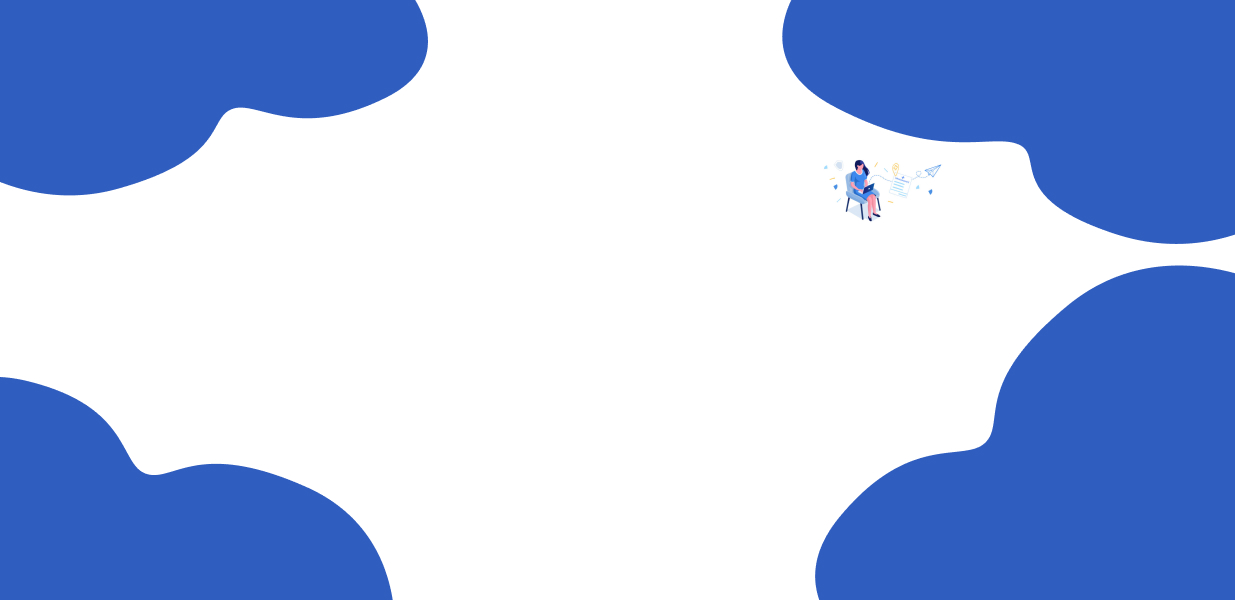
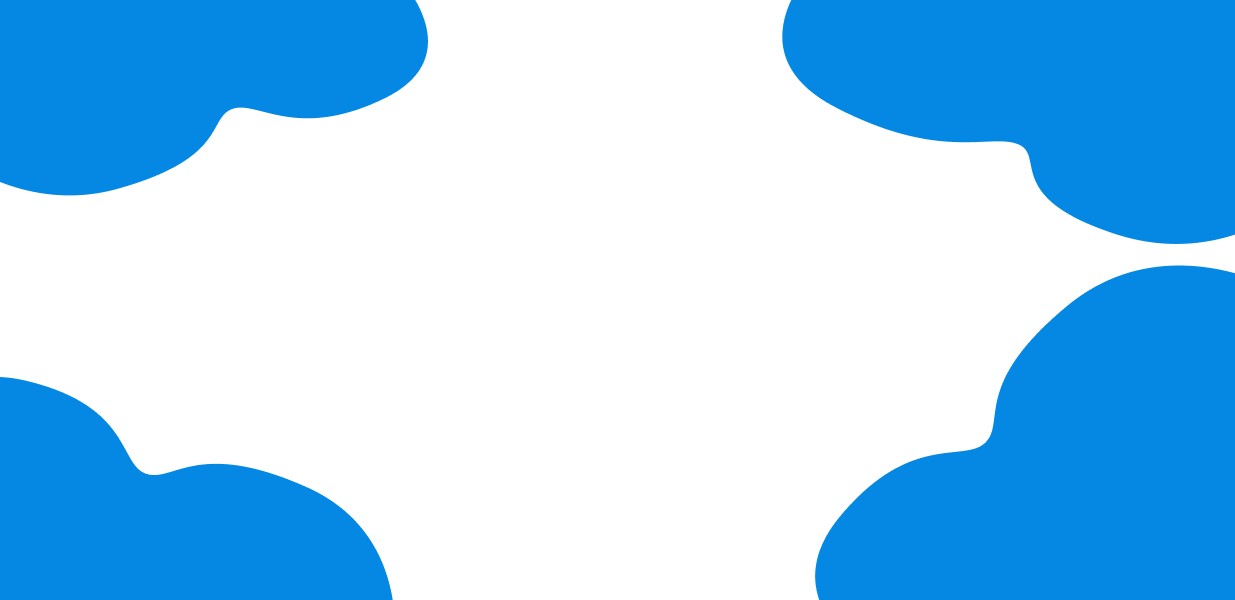
du front docteur

diff --git a/app/assets/stylesheets/components/_bouton-home.scss b/app/assets/stylesheets/components/_bouton-home.scss
@@ -1,10 +1,45 @@
-.boutton-carré{
-    background: #83a4d4; /* fallback for old browsers */
-    background: #00c6ff; /* fallback for old browsers */
-    background: -webkit-linear-gradient(to right, #00c6ff, #0072ff); /* Chrome 10-25, Safari 5.1-6 */
-    background: linear-gradient(to right, #00c6ff, #0072ff); /* W3C, IE 10+/ Edge, Firefox 16+, Chrome 26+, Opera 12+, Safari 7+ */
-    width: 300px;
-    height: 300px;
-    border-radius: 10px;
-    margin-top: 50px;
+.boutton-carré {
+    // background: #2E5CBF; /* fallback for old browsers */
+    // background: -webkit-linear-gradient(to right, #2E5CBF, #0072ff); /* Chrome 10-25, Safari 5.1-6 */
+    // background: linear-gradient(to right, #2E5CBF, #0072ff); /* W3C, IE 10+/ Edge, Firefox 16+, Chrome 26+, Opera 12+, Safari 7+ */
+  position: relative;
+  display: flex;
+  align-items: center;
+  justify-content: center;
+  flex-direction: column;
+  height: 400px;
+  width: 400px;
+  border-radius: 25px;
+  background-color: #ffffff;
+  box-shadow: 8px 0 10px rgba(64, 145, 237, 0.5);
+  overflow: hidden;
+  text-decoration: none;
+
+    h2 {
+      color: #000000;
+      display: block;
+      font-size: 1.5em;
+      font-weight: bold;
+      text-decoration: none;
+    }
+}
+
+
+.image-bouton-carré {
+  width: 81px;
+}
+
+
+.parent-flexbox:hover .boutton-carré {
+  filter: blur(3px);
+  transform: scale(0.9);
+  opactiy: 0.5;
+  transition: 0.9s;
+}
+
+.parent-flexbox .boutton-carré:hover {
+  filter: blur(0);
+  transform: scale(1.1);
+  opactiy: 1;
+  transition: 0.9s;
 }

diff --git a/app/assets/stylesheets/pages/_home-doctortest.scss b/app/assets/stylesheets/pages/_home-doctortest.scss
@@ -1,0 +1,63 @@
+.card-drh {
+  position: relative;
+  display: flex;
+  align-items: center;
+  justify-content: center;
+  flex-direction: column;
+  height: 400px;
+  width: 400px;
+  border-radius: 25px;
+  background-color: #ffffff;
+  box-shadow: 10px 0 50px rgba(0, 0, 0, 0.5);
+  overflow: hidden;
+}
+
+.card-drh:nth-child(1) {
+  margin-right: 30px;
+}
+
+body:hover .card-drh {
+  filter: blur(15px);
+  transform: scale(0.9);
+  opactiy: 0.5;
+  transition: 0.9s;
+}
+
+body .card-drh:hover {
+  filter: blur(0);
+  transform: scale(1);
+  opactiy: 1;
+  transition: 0.9s;
+}
+
+.card-drh h2 {
+  position: absolute;
+  left: 0;
+  top: 0;
+  margin: 20px 0 0 20px;
+  font-size: 32px;
+  font-weight: 600;
+  text-transform: uppercase;
+  letter-spacing: 15px;
+  color: #ffffff;
+  mix-blend-mode: difference;
+}
+
+#circle {
+  height: 100%;
+  width: 100%;
+  border-radius: 50%;
+  background-color: #000000;
+  margin-top: -330px;
+  margin-left: 200px;
+}
+
+#triangle {
+  height: 100%;
+  width: 100%;
+  background-color: #000000;
+  border-radius: 20px;
+  transform: rotate(70deg);
+  margin-top: -430px;
+  margin-left: 200px;
+}

diff --git a/app/assets/stylesheets/components/_cards_home.scss b/app/assets/stylesheets/components/_cards_home.scss
@@ -17,7 +17,7 @@ body {
   background-color: #fff;
   transform: scale(0.7);
   border-radius: 8px;
-  box-shadow: 0 0 10px 1px #4169b0 ;
+  box-shadow: 0 0 10px 1px #0488E3 ;
   left: 25%;
 }
 
@@ -32,7 +32,7 @@ body {
 .card-hp-profession {
   font-size: 35px;
   font-weight: 600;
-  color: #2F5EC0;
+  color: #0488E3;
   position: absolute;
   top: 100px;
   letter-spacing: 2px;
@@ -41,14 +41,14 @@ body {
 
 .hp-bio {
   font-size: 16px;
-  color: #555555;
+  color: #0488E3;
   position: absolute;
   top: 200px;
   text-align: center;
 }
 
 .card-hp-divider {
-  background-color: #949594;
+  background-color: #0488E3;
   height: 1.5px;
   width: 50%;
   position: absolute;
@@ -100,7 +100,7 @@ body {
   box-shadow: -70px;
   font-size: 20px;
   color:white;
-  background-color: #2F5EC0;
+  background-color: #0488E3;
   width: 100%;
   padding: 12px 0;
   font-weight: 600;

diff --git a/app/assets/stylesheets/pages/_home-doctor.scss b/app/assets/stylesheets/pages/_home-doctor.scss
@@ -1,9 +1,11 @@
 .parent-flexbox {
-    display: flex;
-    justify-content: space-around;
+  display: flex;
+  justify-content: space-evenly;
+  padding-top: 150px;
 }
 
-.modal-footer { 
+
+.modal-footer {
     display: flex;
     justify-content: center;
     a {
@@ -16,7 +18,7 @@
 }
 .modal-global {
     margin-top: 30vh;
-  
+
 }
 .input-modal {
     width: 80px;
@@ -25,15 +27,11 @@
 #prescription_patient_id {
     width: 90%;
 }
-.image-bouton-carré {
-    width: 81px;
-}
 
 .banner-img {
-   
     padding-top: 100px;
     padding-bottom: 300px;
-    background-image: asset-url("frame.jpg");
+    background-image: asset-url("Back-homepage.jpg");
     background-size: cover;
     background-position: center;
   }

diff --git a/app/assets/stylesheets/components/_banner_home.scss b/app/assets/stylesheets/components/_banner_home.scss
@@ -1,13 +1,13 @@
 
 .banner-text h1 {
-  color: #153B8C;
+  color: #0D5282;
   font-size: 96px;
   font-weight: 700;
   justify-content: center;
 }
 
 .banner-text h2 {
-  color: #153B8C;
+  color: #0488E3;
   display: block;
   font-size: 1.5em;
   margin-top: 0.83em;
@@ -18,7 +18,7 @@
 }
 
 .banner-text p {
-  color: #153B8C;
+  color: #0488E3;
   margin-left: 260px;
   font-weight: 280;
   opacity: 0.7;
